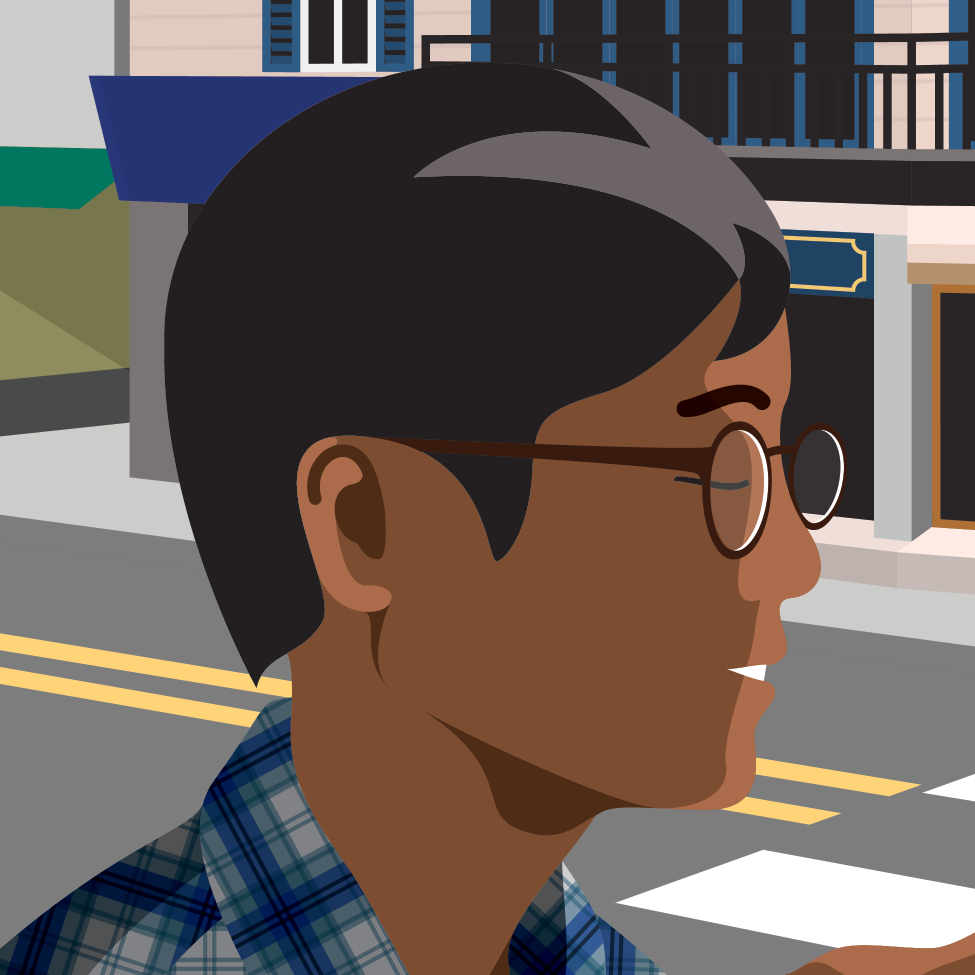
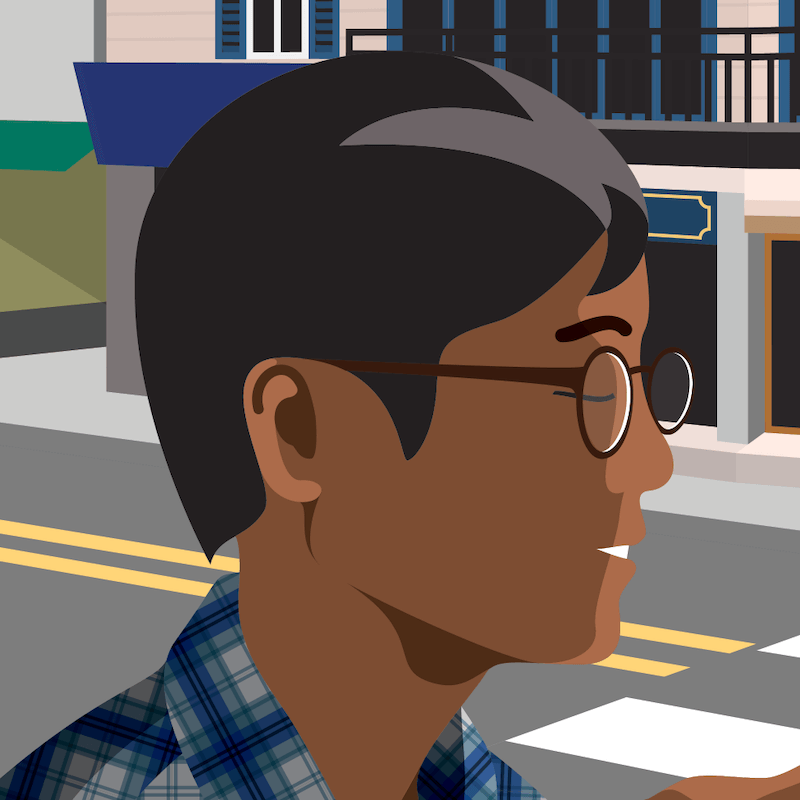
optimize assets

diff --git a/app/portfolio/page.tsx b/app/portfolio/page.tsx
@@ -1,7 +1,7 @@
 import Image from "next/image";
-import magazine from "../../public/magazine.png";
-import catalog from "../../public/catalog.png";
-import textbook from "../../public/textbook.png";
+import magazineThumb from "../../public/magazine-thumb.png";
+import catalogThumb from "../../public/catalog-thumb.png";
+import textbookThumb from "../../public/textbook-thumb.png";
 import guamThumbnail from "../../public/guam-thumb.png";
 import itaewonThumbnail from "../../public/itaewon-thumb.png";
 import seoulDayThumbnail from "../../public/seoul-day-thumb.png";
@@ -19,9 +19,9 @@ export default function Portfolio() {
           <h2 className="text-lg font-bold">Editorial Design</h2>
         </div>
         <div className="grid grid-cols-1 sm:grid-cols-3 w-full gap-px border-y lg:px-20 lg:border-y-0 lg:gap-px">
-          <a href="/magazine.pdf" target="_blank" className="filter hover:brightness-75"><Image src={magazine} alt="Magazine" /></a>
-          <a href="/catalog.pdf" target="_blank" className="filter hover:brightness-75"><Image src={catalog} alt="Catalog" /></a>
-          <a href="/textbook.pdf" target="_blank" className="filter hover:brightness-75"><Image src={textbook} alt="Textbook" /></a>
+          <a href="/magazine.pdf" target="_blank" className="filter hover:brightness-75"><Image src={magazineThumb} alt="Magazine" /></a>
+          <a href="/catalog.pdf" target="_blank" className="filter hover:brightness-75"><Image src={catalogThumb} alt="Catalog" /></a>
+          <a href="/textbook.pdf" target="_blank" className="filter hover:brightness-75"><Image src={textbookThumb} alt="Textbook" /></a>
         </div>
         <div className="p-8 sm:p-20 sm:pb-8 flex flex-col gap-8">
           <h2 className="text-lg font-bold">Digital Illustrations</h2>
